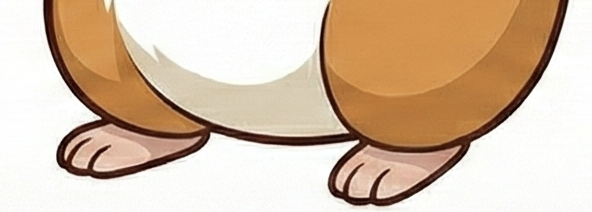
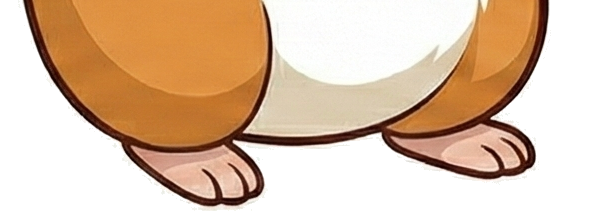
head, legs; links fix

diff --git a/themes/my/layouts/partials/navigation.html b/themes/my/layouts/partials/navigation.html
@@ -2,17 +2,8 @@
     <nav class="navbar navbar-expand-lg navbar-light" style="padding-bottom: 0;">
         <div class="container">
             <a class="navbar-brand" href="/" style="padding-bottom: 0">
-                <img src="/svin.png" style="height:100px;"/>
+                <img src="/head_neck.png" style="height:100px;"/>
             </a>
-
-            <button class="navbar-toggler" type="button"
-                    data-toggle="collapse"
-                    data-target="#navbarResponsive"
-                    aria-controls="navbarResponsive"
-                    aria-expanded="false"
-                    aria-label="Toggle navigation">
-                <span class="navbar-toggler-icon"></span>
-            </button>
             <div class="collapse navbar-collapse" id="navbarResponsive">
                 <a href="/" style="color:#000;"><span class="gopherchat">Привет, я Анатолий! Давай учить турецкий вместе!</span></a>
                 <ul class="navbar-nav ml-auto">
@@ -25,25 +16,6 @@
 <!--                    <li class="nav-item active">-->
 <!--                        <a class="nav-link" href="/{{ .Lang }}/about.html">{{ if eq .Lang "ru"}}О сайте{{else}}О сайте{{end}}</a>-->
 <!--                    </li>-->
-
-                    {{/*                   <li class="nav-item dropdown">
-                    <a class="nav-link dropdown-toggle" href="#" id="dropdown06"
-                       data-toggle="dropdown" aria-haspopup="true" aria-expanded="true">
-                        {{ if eq .Lang "en" }}
-                        <span class="flag-icon flag-icon-us"></span>
-                        EN{{ end }}{{ if eq .Lang "ru" }}
-                        <span class="flag-icon flag-icon-ru"></span>
-                        RU{{ end }}
-                    </a>
-                    <div class="dropdown-menu" aria-labelledby="dropdown06">
-                        <a class="dropdown-item" href="{{ index .LangLinks "en" }}">
-                        <span class="flag-icon flag-icon-us"></span>
-                        EN</a>
-                        <a class="dropdown-item" href="{{ index .LangLinks "ru" }}">
-                        <span class="flag-icon flag-icon-ru"></span>
-                        RU</a>
-                    </div>
-                </li>*/}}
                 </ul>
             </div>
         </div>

diff --git a/public/index.html b/public/index.html
@@ -84,17 +84,8 @@
     <nav class="navbar navbar-expand-lg navbar-light" style="padding-bottom: 0;">
         <div class="container">
             <a class="navbar-brand" href="/" style="padding-bottom: 0">
-                <img src="/svin.png" style="height:100px;"/>
+                <img src="/head_neck.png" style="height:100px;"/>
             </a>
-
-            <button class="navbar-toggler" type="button"
-                    data-toggle="collapse"
-                    data-target="#navbarResponsive"
-                    aria-controls="navbarResponsive"
-                    aria-expanded="false"
-                    aria-label="Toggle navigation">
-                <span class="navbar-toggler-icon"></span>
-            </button>
             <div class="collapse navbar-collapse" id="navbarResponsive">
                 <a href="/" style="color:#000;"><span class="gopherchat">Привет, я Анатолий! Давай учить турецкий вместе!</span></a>
                 <ul class="navbar-nav ml-auto">
@@ -107,8 +98,6 @@
 
 
 
-
-                    
                 </ul>
             </div>
         </div>
@@ -700,7 +689,7 @@
       <div class="card mb-4 bg-light rounded container" style="border: none;">
         <div class="card-body">
           <h2 class="card-title mb-3">
-            <a href="/%d1%81%d0%bb%d0%be%d0%b2%d0%b0/">Слова</a>
+            <a href="/slova/">Слова</a>
           </h2>
           
             <ul class="list-unstyled mb-0">
@@ -773,7 +762,7 @@
 <footer>
     <div class="container " style="padding-top: 0; padding-bottom: 10px;">
     <div class="container">
-        <img src="/legs.png" style="height: 50px; vertical-align: top;"/>
+        <img src="/legs2.png" style="height: 50px; vertical-align: top;"/>
         <div style="text-align: right; vertical-align: top; display: inline-block;">
         </div>
     </div>

diff --git a/themes/my/layouts/home.html b/themes/my/layouts/home.html
@@ -101,7 +101,7 @@
       <div class="card mb-4 bg-light rounded container" style="border: none;">
         <div class="card-body">
           <h2 class="card-title mb-3">
-            <a href="{{ (relURL "/слова/") }}">Слова</a>
+            <a href="{{ (relURL "/slova/") }}">Слова</a>
           </h2>
           {{ if gt (len $words) 0 }}
             <ul class="list-unstyled mb-0">

diff --git a/themes/my/layouts/partials/footer.html b/themes/my/layouts/partials/footer.html
@@ -1,6 +1,6 @@
 <div class="container " style="padding-top: 0; padding-bottom: 10px;">
     <div class="container">
-        <img src="/legs.png" style="height: 50px; vertical-align: top;"/>
+        <img src="/legs2.png" style="height: 50px; vertical-align: top;"/>
         <div style="text-align: right; vertical-align: top; display: inline-block;">
         </div>
     </div>

diff --git a/content/времена/широкое-время.ru.md b/content/времена/широкое-время.ru.md
@@ -225,7 +225,7 @@ url = "/vremena/shirokoe-vremya/"
 
 ### Утверждение
 
-- Выбираем вариант **-r** по последней гласной в основе (подробнее: [гармония гласных](/neobkhodimaya-teoriya/garmoniya-glasnykh/)):
+- Выбираем вариант **-r** по последней гласной в основе (подробнее: [гармония гласных](/garmoniya-glasnykh/)):
   - a / ı → **-ar** (для односложных) или **-ır** (для многосложных)
   - e / i → **-er** (для односложных) или **-ir** (для многосложных)
   - o / u → **-ur**

diff --git a/content/времена/прошедшее-категорическое-с-другими-частями-речи.ru.md b/content/времена/прошедшее-категорическое-с-другими-частями-речи.ru.md
@@ -41,7 +41,7 @@ url = '/vremena/proshedshee-kategoricheskoe-s-drugimi-chastyami-rechi/'
 ### Утверждение
 
 - Если слово заканчивается на гласную — добавляем буферную **-y-**: **-ydı/-ydi/-ydu/-ydü**.
-- Выбираем гласную в **-DI** по последней гласной (подробнее: [гармония гласных](/neobkhodimaya-teoriya/garmoniya-glasnykh/)):
+- Выбираем гласную в **-DI** по последней гласной (подробнее: [гармония гласных](/garmoniya-glasnykh/)):
   - a/ı → **dı**
   - e/i → **di**
   - o/u → **du**

diff --git a/content/времена/широкое-в-прошлом.ru.md b/content/времена/широкое-в-прошлом.ru.md
@@ -20,7 +20,7 @@ url = '/vremena/shirokoe-v-proshlom/'
 ### Утверждение
 
 - Формула: основа + аорист **-r** (варианты **-ar/-er/-ır/-ir/-ur/-ür**) + прошедшее **-dı/-di/-du/-dü** + личные окончания (2 группа).
-- Выбор гласных в суффиксах — по гармонии гласных (подробнее: [гармония гласных](/neobkhodimaya-teoriya/garmoniya-glasnykh/)).
+- Выбор гласных в суффиксах — по гармонии гласных (подробнее: [гармония гласных](/garmoniya-glasnykh/)).
 
 ### Отрицание
 

diff --git a/content/времена/будущее-время.ru.md b/content/времена/будущее-время.ru.md
@@ -216,7 +216,7 @@ url = "/vremena/budushchee-vremya/"
 
 ### Утверждение
 
-- Выбираем **-acak** или **-ecek** по последней гласной в основе (подробнее: [гармония гласных](/neobkhodimaya-teoriya/garmoniya-glasnykh/)):
+- Выбираем **-acak** или **-ecek** по последней гласной в основе (подробнее: [гармония гласных](/garmoniya-glasnykh/)):
   - a / ı / o / u → **-acak**
   - e / i / ö / ü → **-ecek**
 - Формула: основа + **-acak/-ecek** + личные окончания.

diff --git a/content/времена/будущее-прошедшее.ru.md b/content/времена/будущее-прошедшее.ru.md
@@ -282,7 +282,7 @@ featured_image = 'future_past.png'
 
 ### Утверждение
 
-- Выбираем **-acak** или **-ecek** по последней гласной (подробнее: [гармония гласных](/neobkhodimaya-teoriya/garmoniya-glasnykh/)).
+- Выбираем **-acak** или **-ecek** по последней гласной (подробнее: [гармония гласных](/garmoniya-glasnykh/)).
 - Формула: основа + **-acak/-ecek** + **-tı/-ti/-tu/-tü** + личные окончания (2 группа).
 
 Пример с `gitmek`:

diff --git a/content/времена/прошедшее-субъективное.ru.md b/content/времена/прошедшее-субъективное.ru.md
@@ -38,7 +38,7 @@ url = '/vremena/proshedshee-subektivnoe/'
 
 ### Утверждение
 
-- Выбираем **-mış/-miş/-muş/-müş** по последней гласной (подробнее: [гармония гласных](/neobkhodimaya-teoriya/garmoniya-glasnykh/)).
+- Выбираем **-mış/-miş/-muş/-müş** по последней гласной (подробнее: [гармония гласных](/garmoniya-glasnykh/)).
 - Формула: основа + **-mış/-miş/-muş/-müş** + личные окончания (1 группа).
 
 Almak

diff --git a/content/времена/настоящее-время-yor.ru.md b/content/времена/настоящее-время-yor.ru.md
@@ -234,7 +234,7 @@ url = "/vremena/nastoyashchee-vremya-yor/"
 
 ### Утверждение
 
-- Выбираем вариант **-yor** по последней гласной в основе (подробнее: [гармония гласных](/neobkhodimaya-teoriya/garmoniya-glasnykh/)):
+- Выбираем вариант **-yor** по последней гласной в основе (подробнее: [гармония гласных](/garmoniya-glasnykh/)):
   - a / ı → **-ıyor**
   - e / i → **-iyor**
   - o / u → **-uyor**

diff --git a/content/времена/прошедшее-категорическое-с-глаголами.ru.md b/content/времена/прошедшее-категорическое-с-глаголами.ru.md
@@ -26,7 +26,7 @@ url = '/vremena/proshedshee-kategoricheskoe-s-glagolami/'
 
 Как выбрать **-DI**:
 
-- По последней гласной в основе (подробнее: [гармония гласных](/neobkhodimaya-teoriya/garmoniya-glasnykh/)):
+- По последней гласной в основе (подробнее: [гармония гласных](/garmoniya-glasnykh/)):
   - a/ı → **dı**
   - e/i → **di**
   - o/u → **du**
